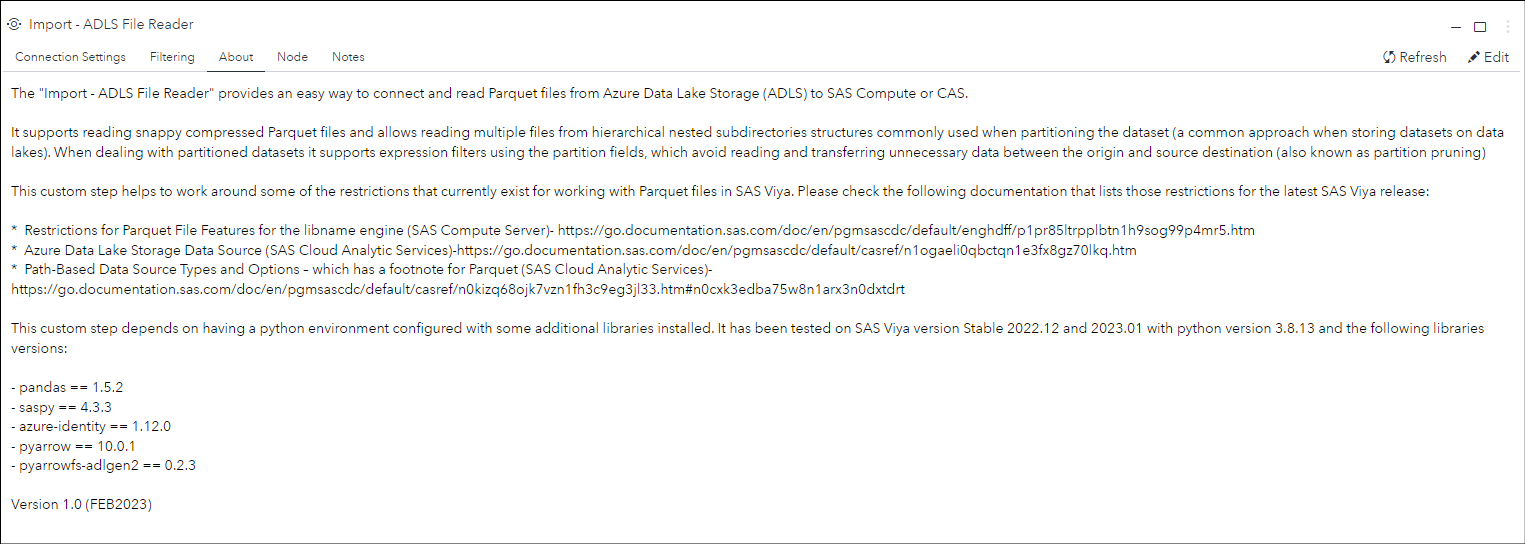
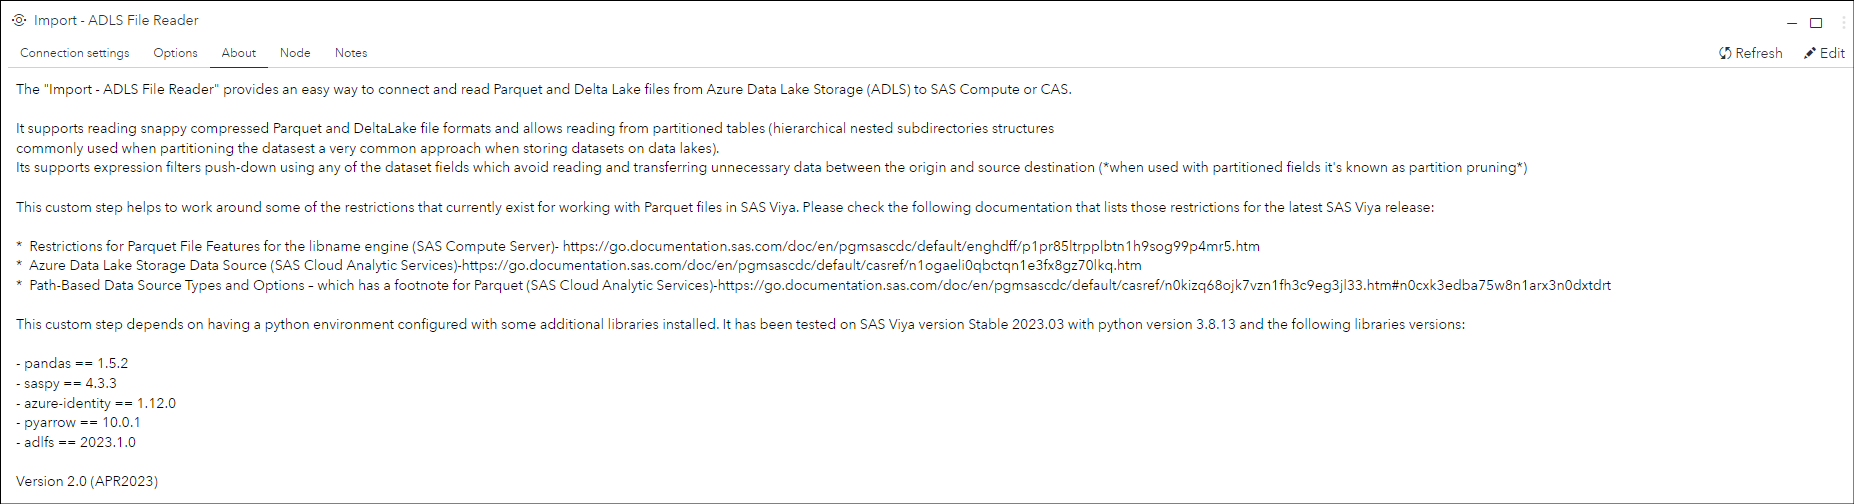
Change Log: - Added support for reading Delta Lake format to "ADLS File Reader" - Removed pyarrowfs-adlgen2 python dependency - Added adlfs python library as filesystem library implementation to access ADLS - Some code refactoring focusing on a object-oriented implementation for ADLSFileReader

diff --git a/Import - ADLS File Reader/README.md b/Import - ADLS File Reader/README.md
@@ -2,19 +2,19 @@
 
 ## Description
 
-The **Import - ADLS File Reader** provides an easy way to connect and read Parquet files from Azure Data Lake Storage (ADLS) to SAS Compute or CAS.
+The **Import - ADLS File Reader** provides an easy way to connect and read Parquet and Delta Lake files from Azure Data Lake Storage (ADLS) to SAS Compute or CAS.
 
-It supports reading snappy compressed Parquet files and allows reading multiple files from hierarchical nested subdirectories structures 
-commonly used when partitioning the dataset (common approach when storing datasets on data lakes). 
-When dealing with partitioned datasets it supports expression filters using the partition fields, which avoid reading and transferring unnecessary data 
-between the origin and source destination (*also known as partition pruning*)
+It supports reading snappy compressed Parquet and DeltaLake file formats and allows reading from partitioned tables (hierarchical nested subdirectories structures 
+commonly used when partitioning the datasest a very common approach when storing datasets on data lakes). 
+Its supports expression filters push-down using any of the dataset fields which avoid reading and transferring unnecessary data 
+between the origin and source destination (*when used with partitioned fields it's known as partition pruning*)
 
 This custom step helps to work around some of the restrictions that currently exist for working with Parquet files in SAS Viya. Please check the following documentation that lists those restrictions for the latest SAS Viya release:
  - [Restrictions for Parquet File Features for the libname engine](https://go.documentation.sas.com/doc/en/pgmsascdc/default/enghdff/p1pr85ltrpplbtn1h9sog99p4mr5.htm) (SAS Compute Server) 
  - [Azure Data Lake Storage Data Source](https://go.documentation.sas.com/doc/en/pgmsascdc/default/casref/n1ogaeli0qbctqn1e3fx8gz70lkq.htm) (SAS Cloud Analytic Services)
  - [Path-Based Data Source Types and Options](https://go.documentation.sas.com/doc/en/pgmsascdc/default/casref/n0kizq68ojk7vzn1fh3c9eg3jl33.htm#n0cxk3edba75w8n1arx3n0dxtdrt) – which has a footnote for Parquet (SAS Cloud Analytic Services)
 
-Version 1.0 (FEB2023)
+Version 2.0 (APR2023)
 
 ## User Interface
 
@@ -24,9 +24,9 @@ Version 1.0 (FEB2023)
    | --- | --- |                
    | ![](img/ADLS_File_Reader-tabConnectionSettings-standalone.png)  | ![](img/ADLS_File_Reader-tabConnectionSettings-flowmode.png) |
 
-* ### Filtering tab ###
+* ### Options tab ###
 
-   ![](img/ADLS_File_Reader-tabFiltering-flow.png)
+   ![](img/ADLS_File_Reader-tabOptions-flow.png)
 
 * ### About tab ###
 
@@ -41,14 +41,14 @@ This customs step depends on having a python environment configured with the fol
 > - saspy
 > - azure-identity
 > - pyarrow
-> - pyarrowfs-adlgen2
+> - adlfs
 
-Tested on Viya version Stable 2022.12 and 2023.01 with python environment version 3.8.13 and the libraries versions:
+Tested on Viya version Stable 2023.03 with python environment version 3.8.13 and the libraries versions:
 > - pandas == 1.5.2
 > - saspy == 4.3.3
 > - azure-identity == 1.12.0
 > - pyarrow == 10.0.1
-> - pyarrowfs-adlgen2 == 0.2.3
+> - adlfs == 2023.1.0
 
 ## Usage
 
@@ -58,3 +58,8 @@ Tested on Viya version Stable 2022.12 and 2023.01 with python environment versio
 
 * Version 1.0 (FEB2023)
     * Initial version
+* Version 2.0 (APR2023) 
+    * Added support for reading Delta Lake file format 
+    * Removed pyarrowfs-adlgen2 python dependency 
+    * Added adlfs python library as filesystem library implementation to access ADLS
+    * Some code refactoring focusing on a object-oriented implementation for ADLSFileReader 
